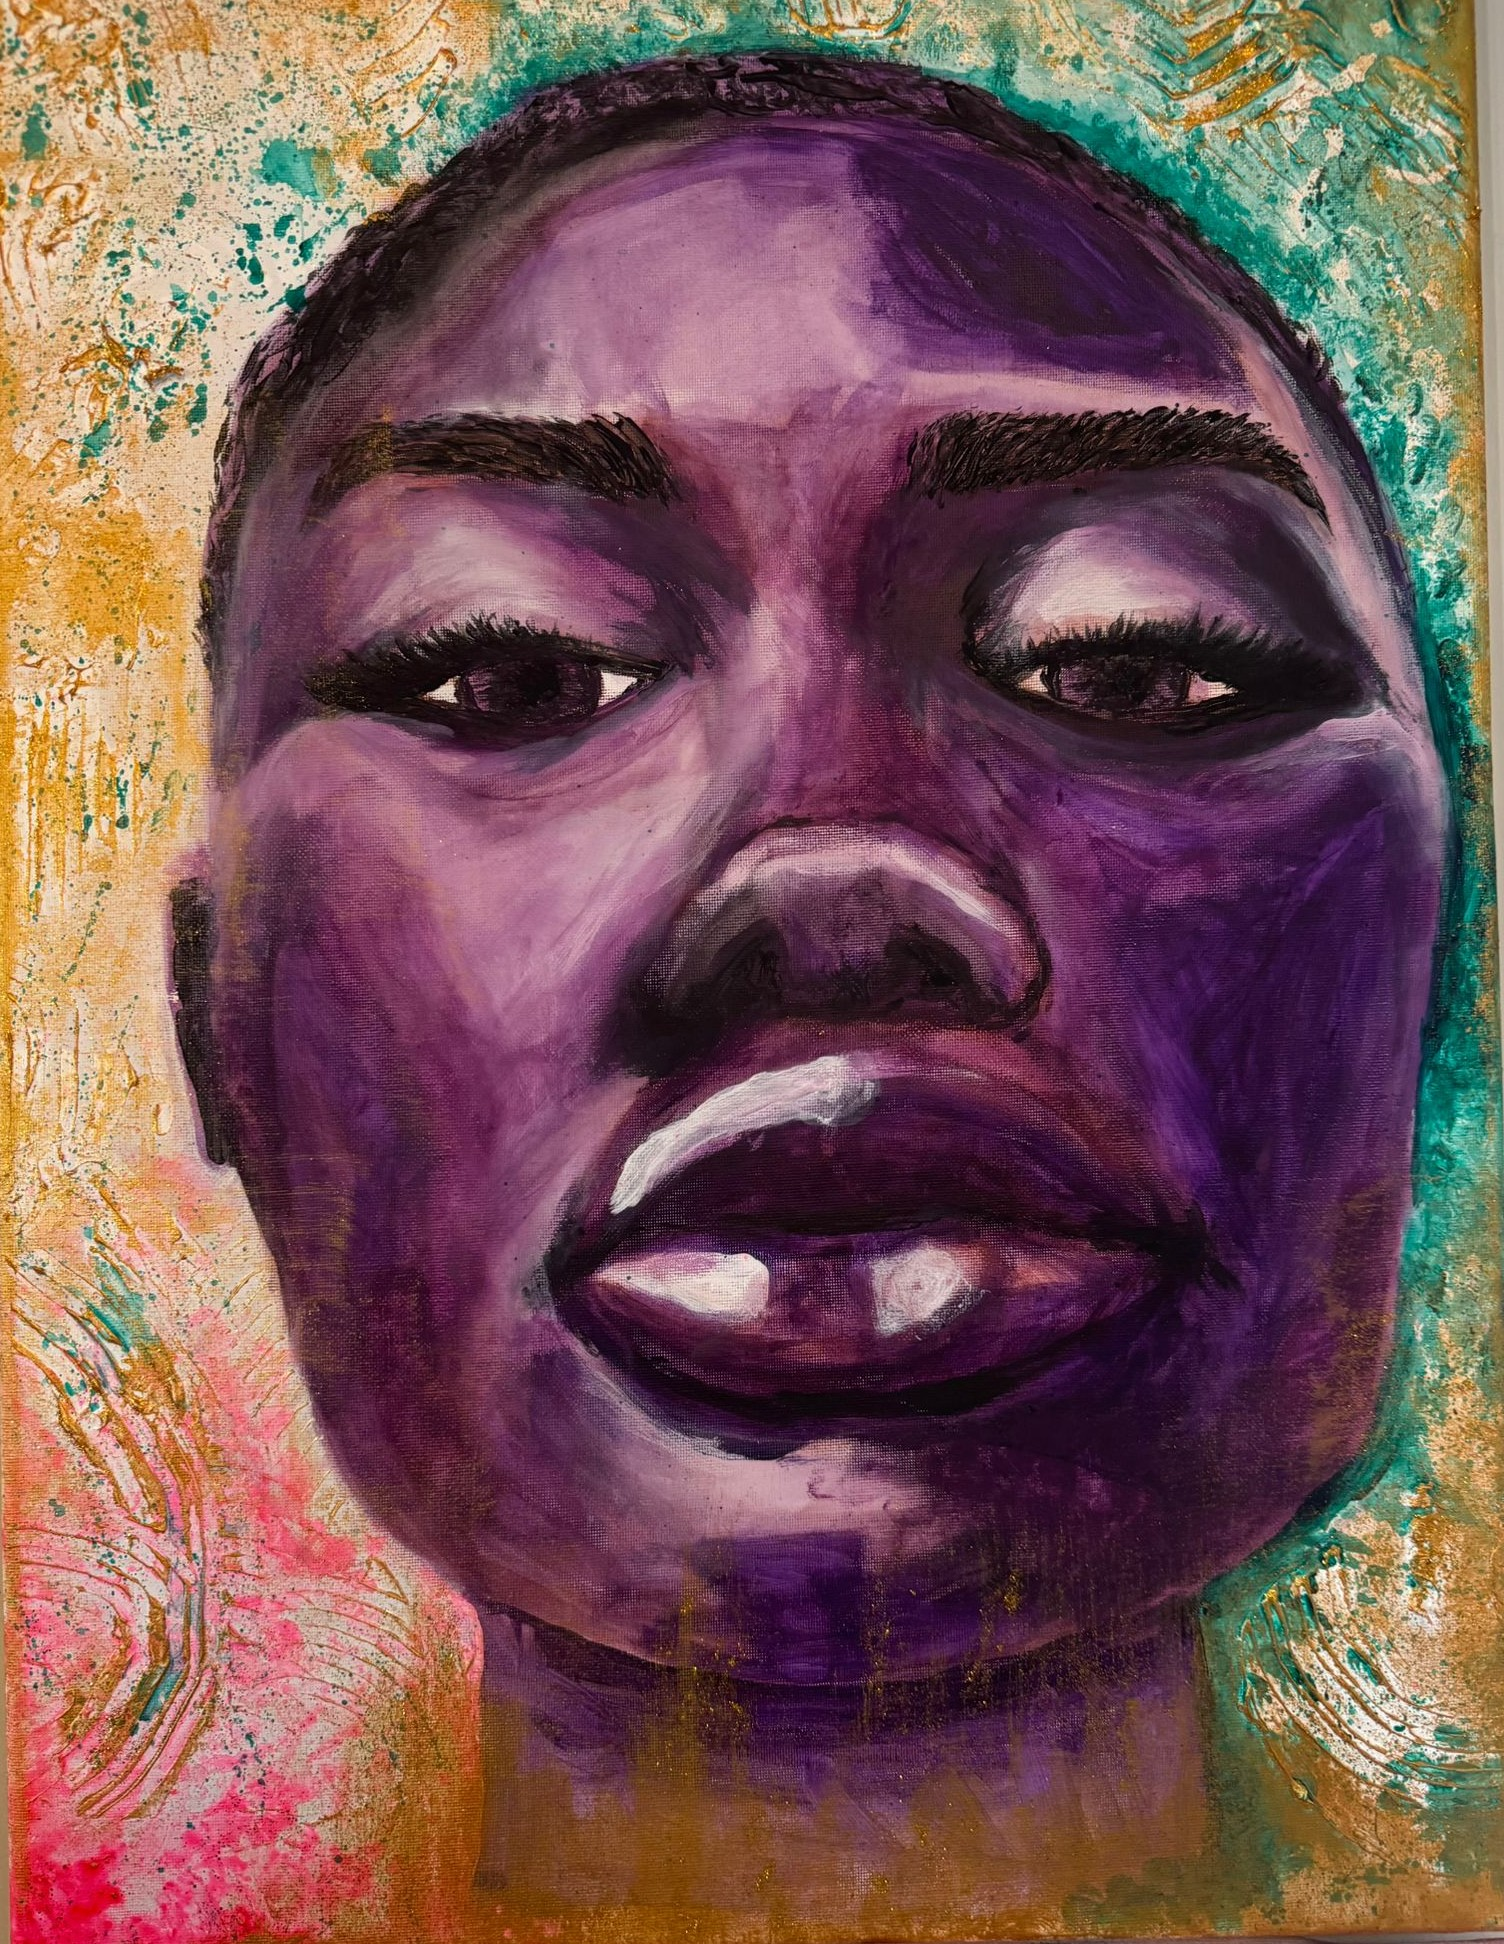
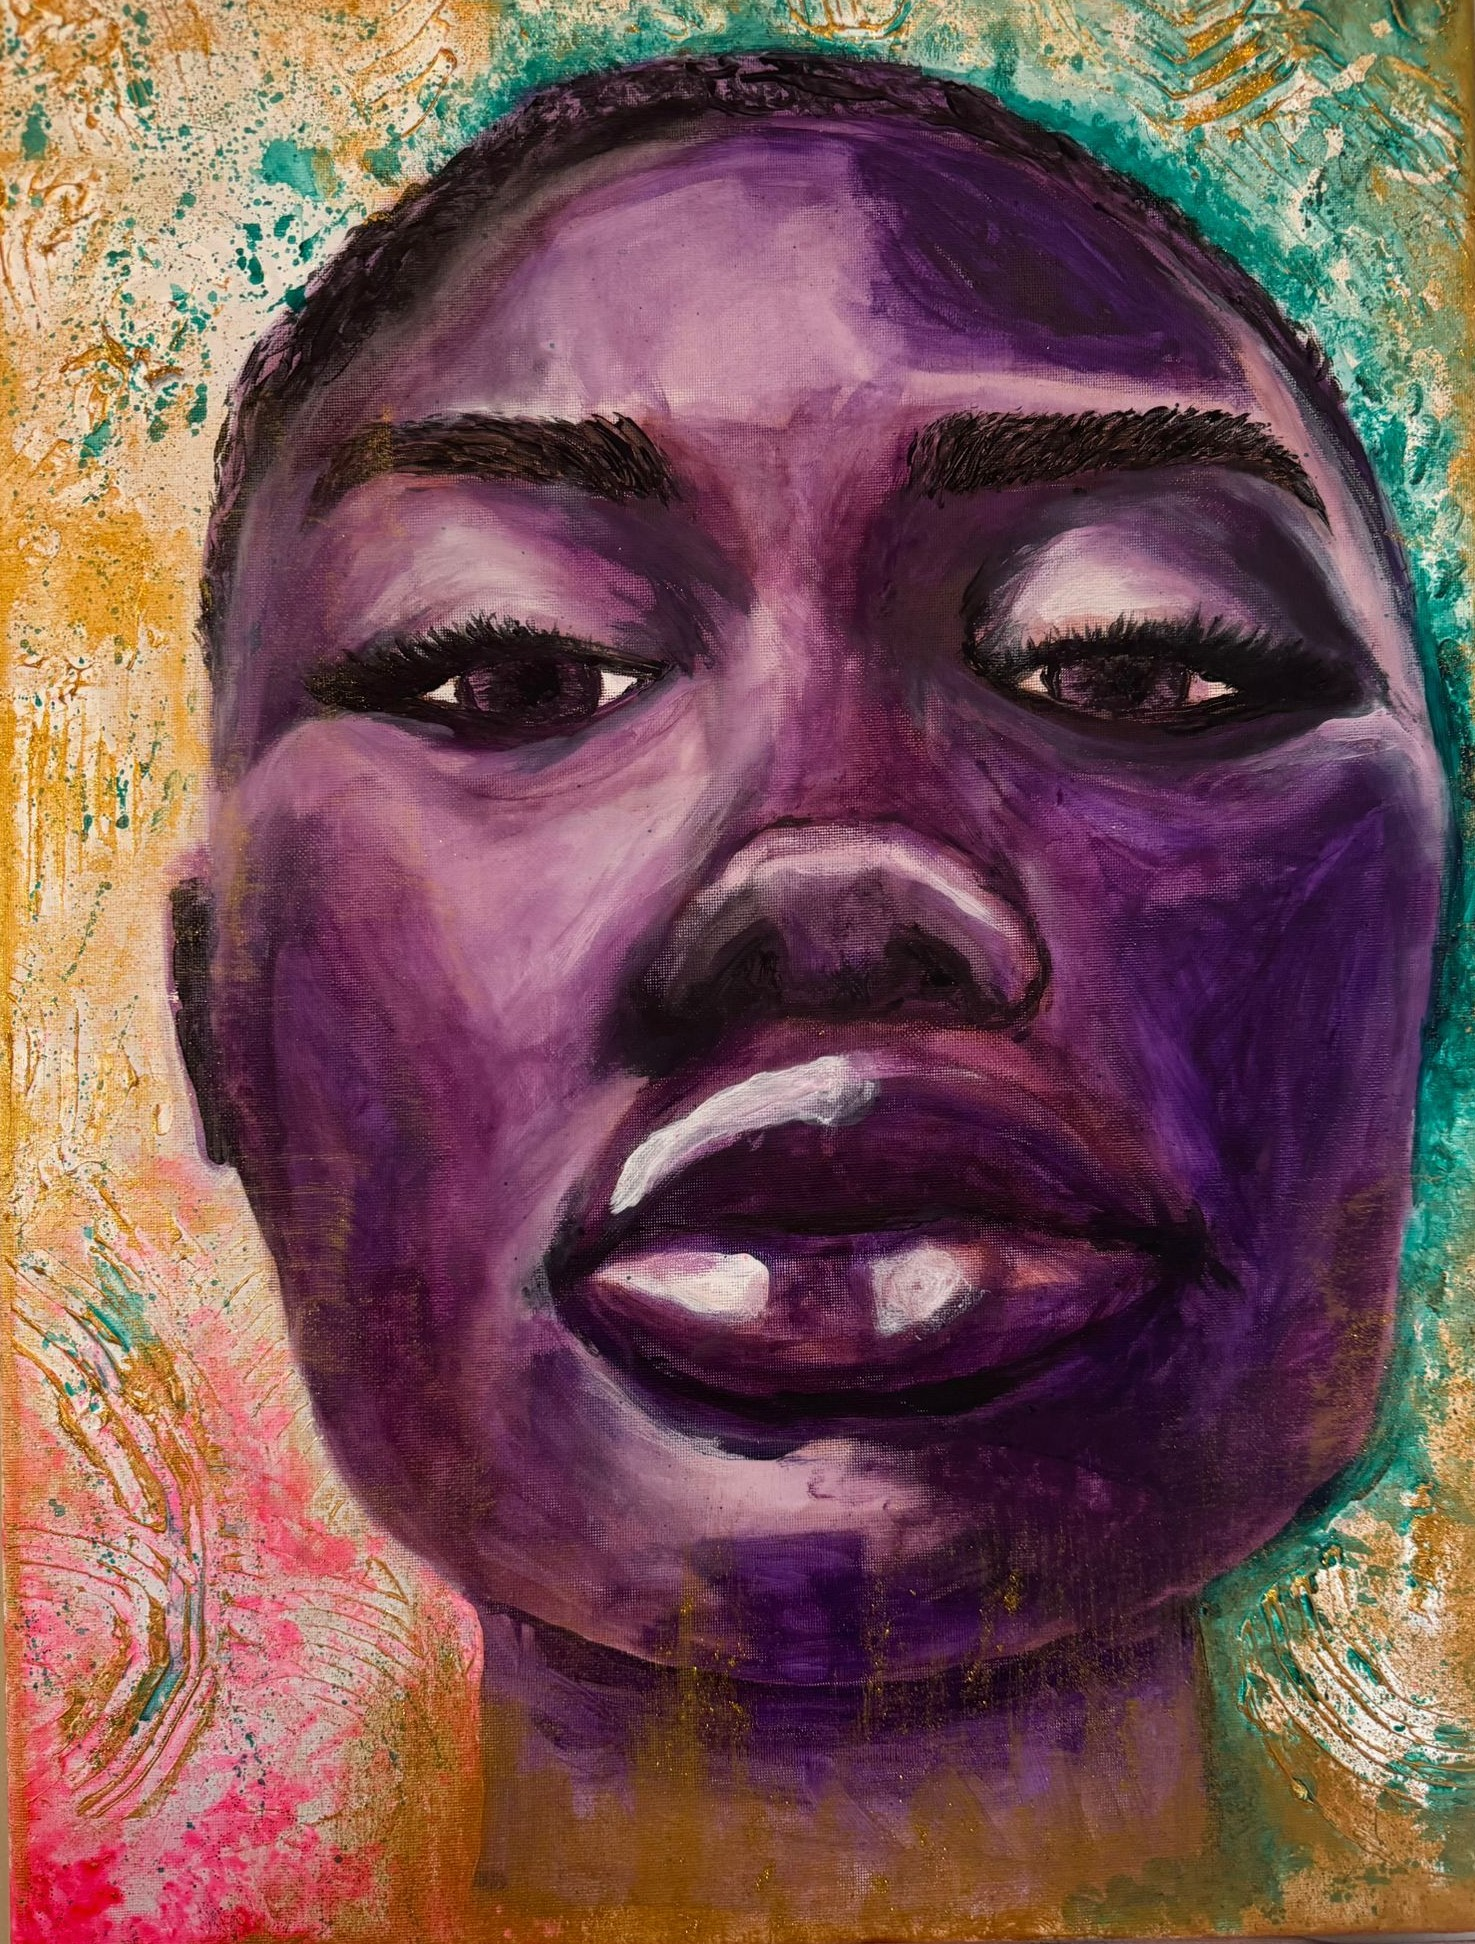
new paintings

diff --git a/gallery.js b/gallery.js
@@ -42,6 +42,7 @@ window.GALLERY_DATA = [
     "src": "images/5.jpg",
     "title": "Galaxies in my eyes",
     "medium": "Acrylic",
+    "dimensions": "24x36",
     "year": "2026"
   },
   {
@@ -60,6 +61,7 @@ window.GALLERY_DATA = [
     "src": "images/8.jpg",
     "title": "Bosphorus",
     "medium": "Acrylic",
+    "dimensions": "18x24",
     "year": "2026"
   },
   {
@@ -72,18 +74,21 @@ window.GALLERY_DATA = [
     "src": "images/10.jpg",
     "title": "Maps",
     "medium": "Acrylic",
+    "dimensions": "24x36",
     "year": "2026"
   },
   {
     "src": "images/11.jpg",
     "title": "Under the tides",
     "medium": "Acrylic",
+    "dimensions": "18x24",
     "year": "2026"
   },
   {
     "src": "images/12.jpg",
     "title": "Quadrophenia",
     "medium": "Acrylic",
+    "dimensions": "18x24",
     "year": "2026"
   },
   {
@@ -114,5 +119,28 @@ window.GALLERY_DATA = [
     "title": "Queen",
     "medium": "Acrylic",
     "year": "2026"
+  },
+  {
+    "src": "images/17.jpg",
+    "title": "Sun-kissed",
+    "medium": "Mixed Media",
+    "dimensions": "24x36",
+    "year": "2026",
+    "notes": "available for purchase"
+  },
+  {
+    "src": "images/21.jpg",
+    "title": "Dream with me",
+    "medium": "Mixed Media",
+    "dimensions": "24x36",
+    "year": "2026"
+  },
+  {
+    "src": "images/24.jpg",
+    "title": "Smile",
+    "medium": "Mixed Media",
+    "dimensions": "24x36",
+    "year": "2026",
+    "notes": "available for purchase"
   }
 ];

diff --git a/index.html b/index.html
@@ -43,7 +43,7 @@
   <section class="gallery-section" id="gallery">
     <div class="container">
       <header class="section-header">
-        <p class="section-eyebrow">Works</p>
+        <p class="section-eyebrow">Her Work</p>
         <h2 class="section-title">Gallery</h2>
       </header>
 
@@ -67,7 +67,7 @@
           <h2 class="section-title">Carol Baker-Lai</h2>
         </header>
         <p class="about-section__body">
-          Carol is a contemporary artist based in Toronto. Her work is an exploration of the unapologetic feminine spirit, translated through a lens of electric color and rich, tactile texture.
+          Carol is a contemporary artist based in Toronto. Her work is an exploration of the unapologetic feminine spirit, translated through a lens of electric colour and rich, tactile texture.
         </p>
         <p class="about-section__body">
           By blending traditional figurative subjects with unconventional, neon-infused palettes, Carol creates pieces that radiate a sense of self-love and inspirational strength. Each brushstroke is intentional, building up layers that invite the viewer to not just see the art, but feel the energy behind its creation.